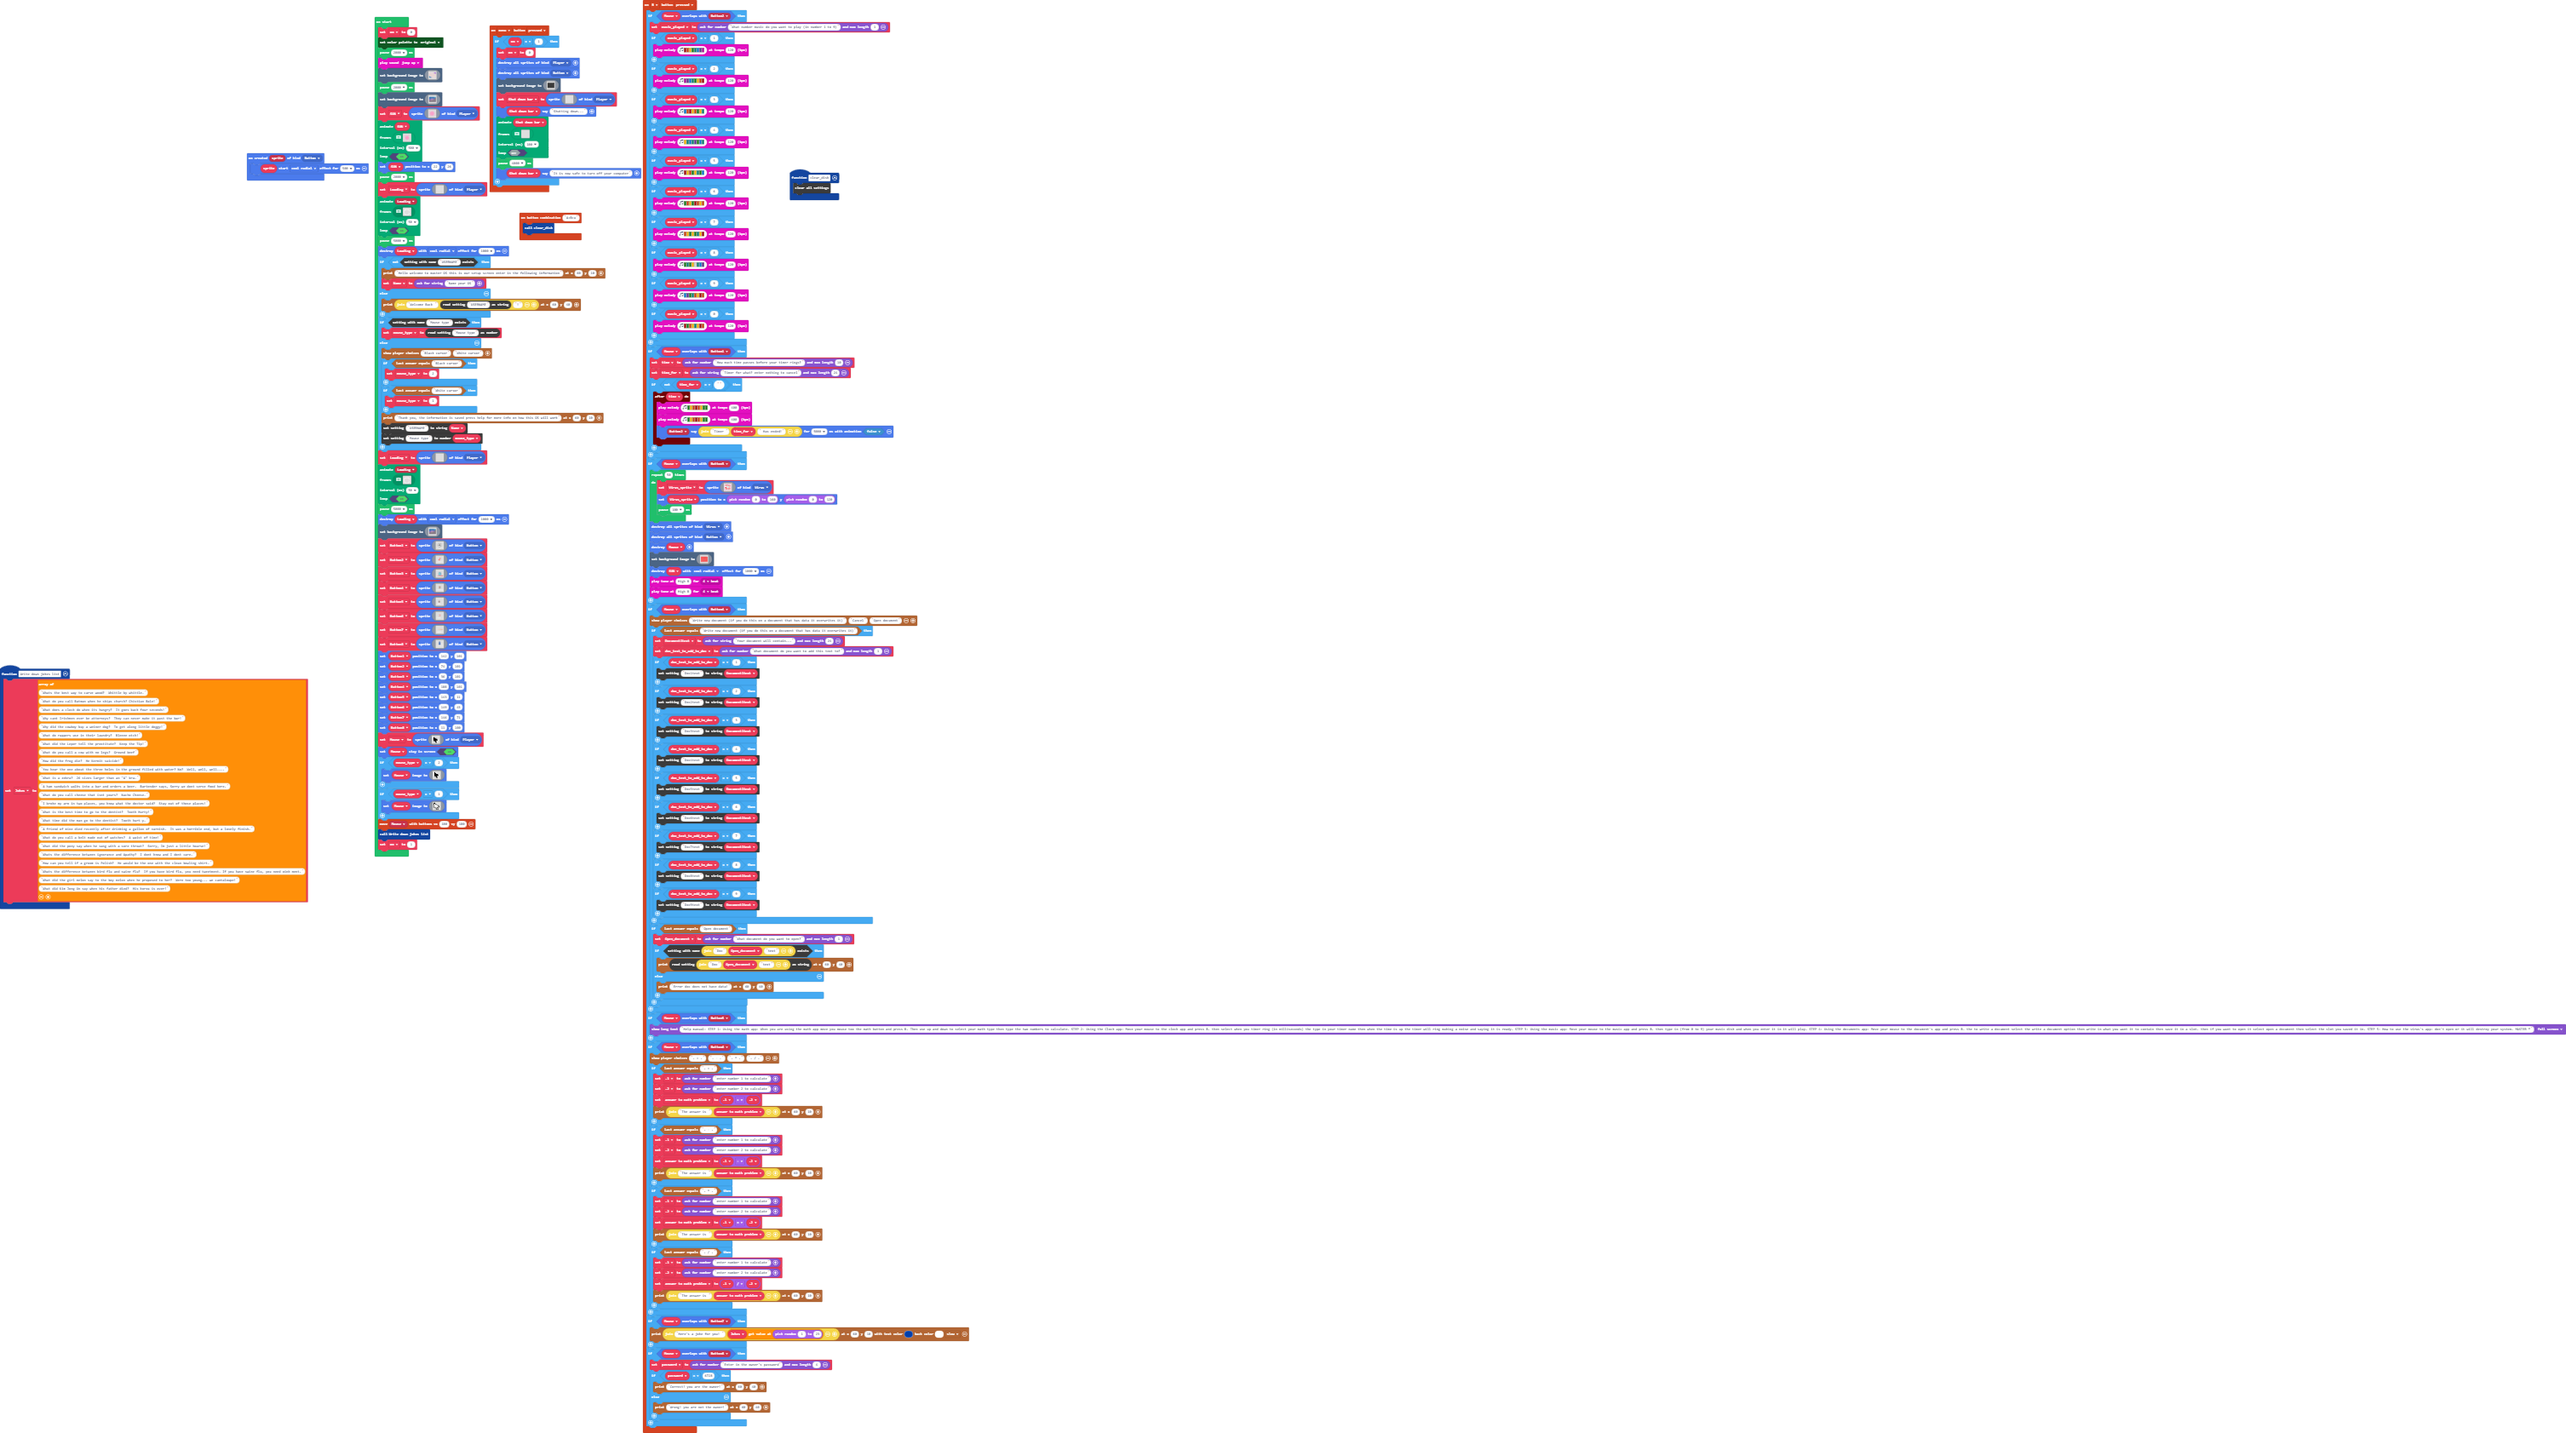
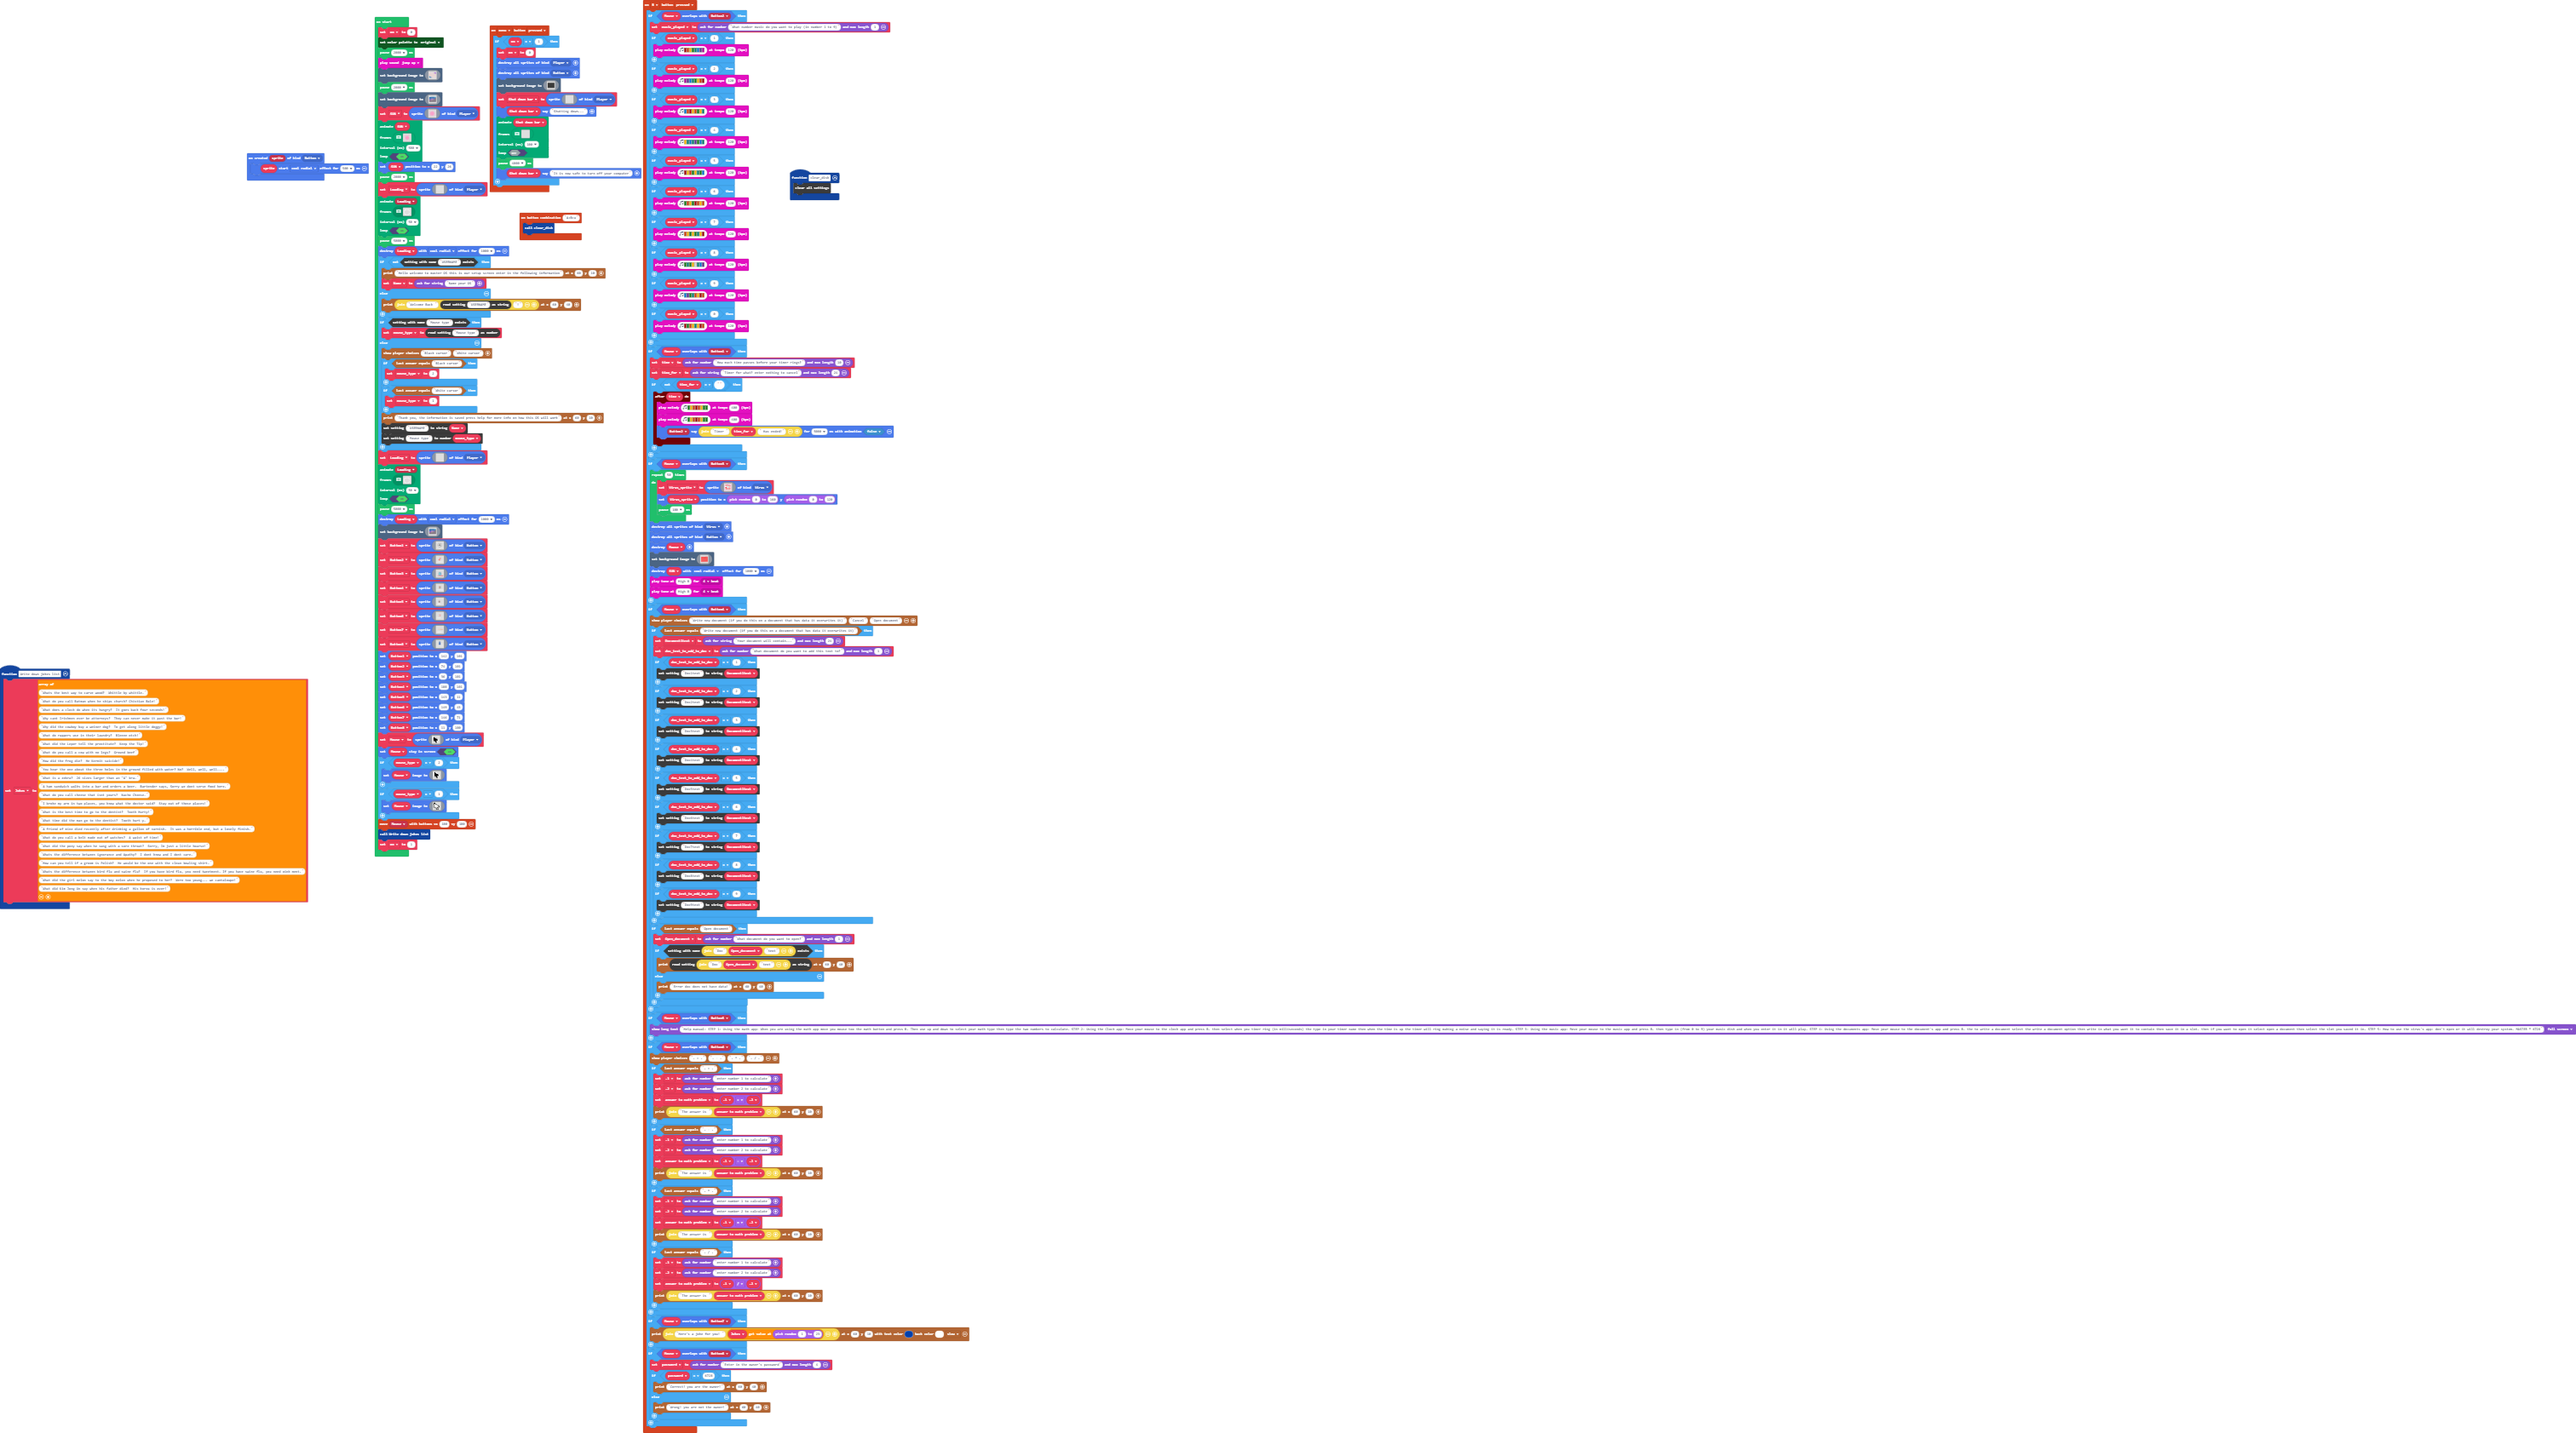
Update main.blocks, main.ts

Changed region(s): [[0.2496, 0.0, 0.3432, 1.0], [0.1248, 0.0309, 0.2184, 0.587]]

diff --git a/main.ts b/main.ts
@@ -106,7 +106,7 @@ controller.B.onEvent(ControllerButtonEvent.Pressed, function () {
         }
     }
     if (Mouse.overlapsWith(Button5)) {
-        game.showLongText("Help manual: STEP 1: Using the math app: When you are using the math app move you mouse too the math button and press B. Then use up and down to select your math type then type the two numbers to calculate. STEP 2: Using the Clock app: Move your mouse to the clock app and press B. then select when you timer ring (in milliseconds) the type in your timer name then when the time is up the timer will ring making a noise and saying it is ready. STEP 3: Using the music app: Move your mouse to the music app and press B. then type in (from 0 to 9) your music disk and when you enter it in it will play. STEP 4: Using the documents app: Move your mouse to the document's app and press B. the to write a document select the write a document option then write in what you want it to contain then save it in a slot. then if you want to open it select open a document then select the slot you saved it in. STEP 5: How to use the virus's app: don't open or it will destroy your system. MASTER ®", DialogLayout.Full)
+        game.showLongText("Help manual: STEP 1: Using the math app: When you are using the math app move you mouse too the math button and press B. Then use up and down to select your math type then type the two numbers to calculate. STEP 2: Using the Clock app: Move your mouse to the clock app and press B. then select when you timer ring (in milliseconds) the type in your timer name then when the time is up the timer will ring making a noise and saying it is ready. STEP 3: Using the music app: Move your mouse to the music app and press B. then type in (from 0 to 9) your music disk and when you enter it in it will play. STEP 4: Using the documents app: Move your mouse to the document's app and press B. the to write a document select the write a document option then write in what you want it to contain then save it in a slot. then if you want to open it select open a document then select the slot you saved it in. STEP 5: How to use the virus's app: don't open or it will destroy your system. MASTER ® 6728", DialogLayout.Full)
     }
     if (Mouse.overlapsWith(Button6)) {
         story.showPlayerChoices(". + .", ". - .", ". * .", ". / .")
